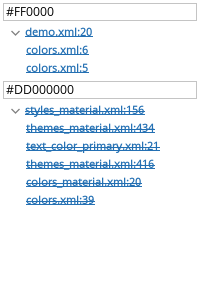
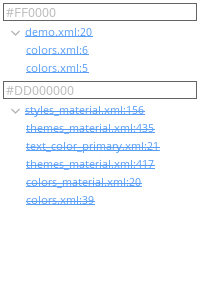
Explicitly ask for SDK in tests that are API level sensitive.
This will make the layout inspector tests independent of SDK
updates. We will have to mannually update these 2 tests to a
new SDK.

Fixes: 355160912
Test: ResolutionElementEditorTest & ResourceLookupResolverTest

GitOrigin-RevId: 807b67c6d7d16d9ffddcdabf20ca96948b075631

Changed region(s): [[0.0, 0.0, 0.99, 0.69], [0.06, 0.36, 0.09, 0.39]]

diff --git a/layout-inspector/testSrc/com/android/tools/idea/layoutinspector/resource/ResourceLookupResolverTest.kt b/layout-inspector/testSrc/com/android/tools/idea/layoutinspector/resource/ResourceLookupResolverTest.kt
@@ -26,6 +26,8 @@ import com.android.ide.common.rendering.api.ResourceNamespace
 import com.android.ide.common.rendering.api.ResourceReference
 import com.android.ide.common.resources.configuration.FolderConfiguration
 import com.android.resources.ResourceType
+import com.android.sdklib.AndroidVersion
+import com.android.sdklib.AndroidVersion.VersionCodes
 import com.android.tools.idea.concurrency.AndroidCoroutineScope
 import com.android.tools.idea.configurations.ConfigurationManager
 import com.android.tools.idea.layoutinspector.model.ViewNode
@@ -44,7 +46,6 @@ import com.intellij.testFramework.RunsInEdt
 import java.awt.Rectangle
 import org.jetbrains.android.facet.AndroidFacet
 import org.junit.Before
-import org.junit.Ignore
 import org.junit.Rule
 import org.junit.Test
 import org.junit.rules.RuleChain
@@ -52,7 +53,10 @@ import org.mockito.kotlin.mock
 
 @RunsInEdt
 class ResourceLookupResolverTest {
-  private val projectRule = AndroidProjectRule.withSdk()
+  // This test is SDK sensitive.
+  // Explicitly specify the SDK to avoid failures in SDK upgrades.
+  private val projectRule =
+    AndroidProjectRule.withSdk(AndroidVersion(VersionCodes.VANILLA_ICE_CREAM))
 
   @get:Rule val ruleChain = RuleChain.outerRule(projectRule).around(EdtRule())!!
 
@@ -222,7 +226,6 @@ class ResourceLookupResolverTest {
       .isEqualTo("#FF0000")
   }
 
-  @Ignore("Test fails at SDK 35: b/355160912")
   @Test
   fun testColorValueFromTextStyleMaterialBody1() {
     val data = Data(projectRule.testRootDisposable)
@@ -237,7 +240,7 @@ class ResourceLookupResolverTest {
     )
     checkLocation(
       locations[1],
-      "themes_material.xml:434",
+      "themes_material.xml:435",
       "<item name=\"textColorPrimary\">@color/text_color_primary</item>",
     )
     checkLocation(
@@ -248,7 +251,7 @@ class ResourceLookupResolverTest {
     )
     checkLocation(
       locations[3],
-      "themes_material.xml:416",
+      "themes_material.xml:417",
       "<item name=\"colorForeground\">@color/foreground_material_light</item>",
     )
     checkLocation(
@@ -262,7 +265,6 @@ class ResourceLookupResolverTest {
       .isEqualTo("#DD000000")
   }
 
-  @Ignore("Test fails at SDK 35: b/355160912")
   @Test
   fun testColorValueFromTextStyleMaterialWithLimit() {
     val data = Data(projectRule.testRootDisposable)
@@ -277,7 +279,7 @@ class ResourceLookupResolverTest {
     )
     checkLocation(
       locations[1],
-      "themes_material.xml:434",
+      "themes_material.xml:435",
       "<item name=\"textColorPrimary\">@color/text_color_primary</item>",
     )
     assertThat(locations.size).isEqualTo(2) // 3 lines omitted because a limit of 2 was specified

diff --git a/layout-inspector/testSrc/com/android/tools/idea/layoutinspector/ui/ResolutionElementEditorTest.kt b/layout-inspector/testSrc/com/android/tools/idea/layoutinspector/ui/ResolutionElementEditorTest.kt
@@ -20,6 +20,8 @@ import com.android.SdkConstants.ATTR_TEXT_COLOR
 import com.android.ide.common.rendering.api.ResourceNamespace
 import com.android.ide.common.rendering.api.ResourceReference
 import com.android.resources.ResourceType
+import com.android.sdklib.AndroidVersion
+import com.android.sdklib.AndroidVersion.VersionCodes
 import com.android.testutils.ImageDiffUtil
 import com.android.testutils.TestUtils
 import com.android.tools.adtui.stdui.KeyStrokes
@@ -57,7 +59,6 @@ import javax.swing.UIManager
 import javax.swing.plaf.metal.MetalLookAndFeel
 import javax.swing.plaf.metal.MetalTheme
 import kotlinx.coroutines.runBlocking
-import org.junit.Ignore
 import org.junit.Rule
 import org.junit.Test
 import org.junit.rules.ExternalResource
@@ -67,7 +68,10 @@ private const val TEST_DATA_PATH = "tools/adt/idea/layout-inspector/testData/ui"
 private const val DIFF_THRESHOLD = 0.01
 
 class ResolutionElementEditorTest {
-  private val projectRule = AndroidProjectRule.withSdk()
+  // This test is SDK sensitive.
+  // Explicitly specify the SDK to avoid failures in SDK upgrades.
+  private val projectRule =
+    AndroidProjectRule.withSdk(AndroidVersion(VersionCodes.VANILLA_ICE_CREAM))
 
   @get:Rule
   val ruleChain =
@@ -98,7 +102,6 @@ class ResolutionElementEditorTest {
     checkImage(editors, "OpenWithDetails")
   }
 
-  @Ignore("Test fails at SDK 35: b/355160912")
   @Test
   fun testPaintOpenWithTwoDetails() = runBlocking {
     val editors = createEditors()
